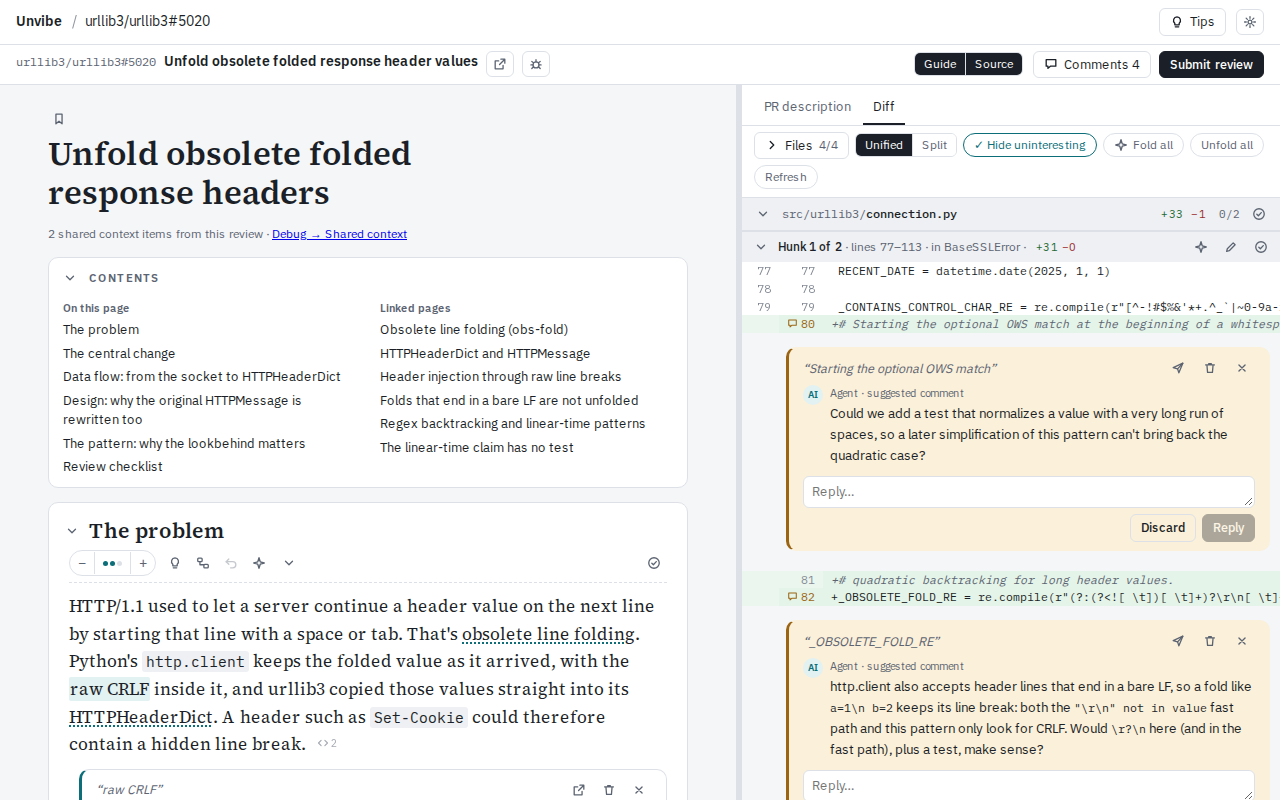
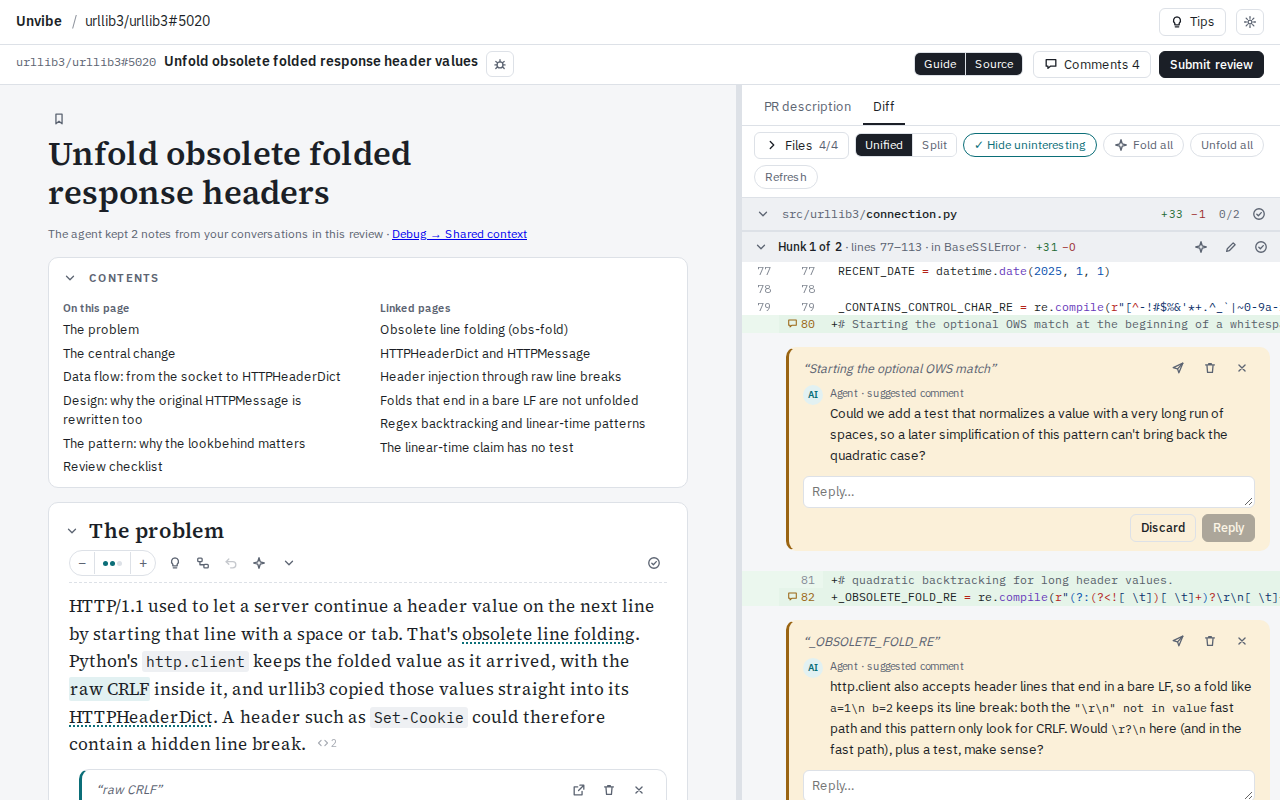
Follow-ups on the merge: copy wording, breadcrumb h1, mock demo repoId (#31, #55, #83)

diff --git a/packages/web/src/shell/ReviewBar.test.tsx b/packages/web/src/shell/ReviewBar.test.tsx
@@ -24,15 +24,18 @@ afterEach(() => {
 
 const noop = (): void => {};
 
-async function renderBar(reviewId: string): Promise<void> {
+async function renderBar(reviewId: string, identity: string): Promise<void> {
+  // ReviewBar reads the snapshot from the store (loaded by the panes in
+  // the app); seed it here the same way.
+  useReview.getState().setSnapshot(await api.review(reviewId));
   render(
     <MemoryRouter initialEntries={[`/review/${reviewId}`]}>
       <ReviewBar reviewId={reviewId} guideOpen sourceOpen onToggleGuide={noop} onToggleSource={noop} />
     </MemoryRouter>,
   );
-  // The identity falls back to the review id until the summary/snapshot
-  // arrive; wait for the PR identity instead.
-  await screen.findByText("urllib3/urllib3#5020", {}, { timeout: 5000 });
+  // The identity falls back to the review id until the summary arrives;
+  // wait for the PR identity instead.
+  await screen.findByText(identity, {}, { timeout: 5000 });
 }
 
 /** Store a modified copy of the demo snapshot under another review id. */
@@ -46,16 +49,18 @@ async function seedReview(review: Record<string, unknown>): Promise<void> {
 
 describe("ReviewBar", () => {
   it("shows identity, GitHub link, Debug icon, Guide|Source and Comments + Submit", async () => {
-    await renderBar("demo");
+    // r-old is a PR review (urllib3/urllib3#5011); the demo hides its
+    // GitHub link (see below), so the present-case uses r-old.
+    await renderBar("r-old", "urllib3/urllib3#5011");
     const bar = document.getElementById("reviewbar");
     expect(bar).not.toBeNull();
-    expect(bar).toHaveTextContent("Unfold obsolete folded response header values");
+    expect(bar).toHaveTextContent("Fix retry backoff on 429s");
     const github = screen.getByRole("link", { name: "Open PR on GitHub" });
-    expect(github).toHaveAttribute("href", "https://github.com/urllib3/urllib3/pull/5020");
+    expect(github).toHaveAttribute("href", "https://github.com/urllib3/urllib3/pull/5011");
     expect(github).toHaveAttribute("target", "_blank");
     expect(github).toHaveAttribute("rel", "noreferrer");
     const debug = screen.getByRole("link", { name: "Debug" });
-    expect(debug).toHaveAttribute("href", "/review/demo/debug");
+    expect(debug).toHaveAttribute("href", "/review/r-old/debug");
     expect(debug).toHaveAttribute("title", "Debug");
     expect(screen.getByRole("button", { name: "Guide" })).toHaveAttribute("aria-pressed", "true");
     expect(document.getElementById("toggleRight")).toHaveTextContent("Source");
@@ -78,13 +83,9 @@ describe("ReviewBar", () => {
   });
 
   it("shows no GitHub link for the demo", async () => {
-    await seedReview({ id: "demo-x", repoId: "demo", prNumber: 5020, branch: "demo" });
-    render(
-      <MemoryRouter initialEntries={["/review/demo-x"]}>
-        <ReviewBar reviewId="demo-x" guideOpen sourceOpen onToggleGuide={noop} onToggleSource={noop} />
-      </MemoryRouter>,
-    );
-    await screen.findByText("demo/urllib3-5020#5020");
+    // The mock demo snapshot carries repoId "demo" like the real demo, so
+    // the PR link-out stays hidden even though the summary names the PR.
+    await renderBar("demo", "urllib3/urllib3#5020");
     expect(screen.queryByRole("link", { name: "Open PR on GitHub" })).toBeNull();
   });
 

diff --git a/packages/web/e2e/review-bar.spec.ts b/packages/web/e2e/review-bar.spec.ts
@@ -18,22 +18,31 @@ test.beforeEach(async ({ page }) => {
 test("review bar shows identity, GitHub link, Debug, Guide|Source, Comments and Submit", async ({
   page,
 }) => {
+  // r-old is a PR review; the demo hides its GitHub link (mock snapshot
+  // carries repoId "demo" like the real demo), so the link case uses r-old.
+  await page.goto("/review/r-old");
+  await expect(page.locator(connFile)).toBeVisible();
   const bar = page.locator("#reviewbar");
   await expect(bar).toBeVisible();
-  await expect(bar.getByText("urllib3/urllib3#5020")).toBeVisible();
-  await expect(bar.getByText("Unfold obsolete folded response header values")).toBeVisible();
+  await expect(bar.getByText("urllib3/urllib3#5011")).toBeVisible();
   const github = bar.getByRole("link", { name: "Open PR on GitHub" });
-  await expect(github).toHaveAttribute("href", "https://github.com/urllib3/urllib3/pull/5020");
+  await expect(github).toHaveAttribute("href", "https://github.com/urllib3/urllib3/pull/5011");
   await expect(github).toHaveAttribute("target", "_blank");
   await expect(bar.getByRole("link", { name: "Debug" })).toHaveAttribute(
     "href",
-    "/review/demo/debug",
+    "/review/r-old/debug",
   );
   await expect(bar.getByRole("button", { name: "Guide" })).toHaveAttribute("aria-pressed", "true");
   await expect(bar.getByRole("button", { name: "Source" })).toHaveAttribute("aria-pressed", "true");
   await expect(bar.locator('[data-cm=""]')).toBeVisible();
   // Submit is the primary action in the bar.
   await expect(bar.locator('#submitSlot [data-submit]')).toHaveClass(/btn/);
+});
+
+test("demo review shows no GitHub link", async ({ page }) => {
+  const bar = page.locator("#reviewbar");
+  await expect(bar.getByText("urllib3/urllib3#5020")).toBeVisible();
+  await expect(bar.getByRole("link", { name: "Open PR on GitHub" })).toHaveCount(0);
 });
 
 test("review breadcrumb names the review as the current page", async ({ page }) => {

diff --git a/packages/web/e2e/diff.spec.ts b/packages/web/e2e/diff.spec.ts
@@ -81,7 +81,7 @@ test("files filter narrows the visible files", async ({ page }) => {
 });
 
 test("file filter dropdown filters by type with counts and an active state", async ({ page }) => {
-  await page.getByRole("button", { name: "Show files panel" }).click();
+  await page.getByRole("button", { name: "Show file list" }).click();
   const filter = page.getByRole("button", { name: "File filters" });
   await expect(filter).toBeVisible();
   // Default: no active badge.
@@ -91,7 +91,7 @@ test("file filter dropdown filters by type with counts and an active state", asy
   await expect(menu).toBeVisible();
   // Five categories plus Reviewed, each a checkable row with a count.
   await expect(menu.getByRole("menuitemcheckbox")).toHaveCount(6);
-  for (const name of ["Source", "Tests", "Docs", "Config", "Generated", "Reviewed"]) {
+  for (const name of ["Code", "Tests", "Docs", "Config", "Generated", "Reviewed"]) {
     await expect(menu.getByRole("menuitemcheckbox", { name: new RegExp(name) })).toBeVisible();
   }
   // Deselect Tests: its files hide and the button shows the active count.
@@ -108,7 +108,7 @@ test("file filter dropdown filters by type with counts and an active state", asy
 });
 
 test("file filter dropdown is keyboard-usable and closes on Escape", async ({ page }) => {
-  await page.getByRole("button", { name: "Show files panel" }).click();
+  await page.getByRole("button", { name: "Show file list" }).click();
   const filter = page.getByRole("button", { name: "File filters" });
   await filter.focus();
   await page.keyboard.press("Enter");

diff --git a/packages/web/src/source/diff/DiffView.test.tsx b/packages/web/src/source/diff/DiffView.test.tsx
@@ -115,7 +115,7 @@ describe("DiffView", () => {
       }),
     );
     await renderDiff();
-    await fireEvent.click(screen.getByRole("button", { name: "Show files panel" }));
+    await fireEvent.click(screen.getByRole("button", { name: "Show file list" }));
     // Only the source file shows; the tests/docs files are filtered out.
     expect(document.getElementById(`F-${CONN}`)).not.toBeNull();
     expect(document.getElementById(`F-${TCONN}`)).toBeNull();
@@ -136,7 +136,7 @@ describe("DiffView", () => {
 
   it("filter button shows its active state and toggles categories", async () => {
     await renderDiff();
-    await fireEvent.click(screen.getByRole("button", { name: "Show files panel" }));
+    await fireEvent.click(screen.getByRole("button", { name: "Show file list" }));
     const filter = screen.getByRole("button", { name: "File filters" });
     // Default: everything shown, no active badge.
     expect(filter).toHaveAttribute("aria-pressed", "false");
@@ -158,7 +158,7 @@ describe("DiffView", () => {
 
   it("filter dropdown toggles Reviewed and is keyboard-usable", async () => {
     await renderDiff();
-    await fireEvent.click(screen.getByRole("button", { name: "Show files panel" }));
+    await fireEvent.click(screen.getByRole("button", { name: "Show file list" }));
     const filter = screen.getByRole("button", { name: "File filters" });
     await fireEvent.click(filter);
     const menu = screen.getByRole("menu", { name: "File filters" });

diff --git a/packages/web/e2e/start.spec.ts b/packages/web/e2e/start.spec.ts
@@ -33,8 +33,8 @@ test("repo selector lists remembered and detected repos, persisted", async ({ pa
 });
 
 test("repo selector sits centered above Reviews, outside the top bar", async ({ page }) => {
-  await expect(page.locator("header.top").getByLabel("Repository")).toHaveCount(0);
-  const sel = page.getByLabel("Repository");
+  await expect(page.locator("header.top").getByLabel("Repo")).toHaveCount(0);
+  const sel = page.getByLabel("Repo");
   await expect(sel).toBeVisible();
   const headerBox = await page.locator("header.top").boundingBox();
   const selBox = await sel.boundingBox();
@@ -54,7 +54,7 @@ test("ready indicator shows as a quiet content line, not in the top bar", async 
   await expect(page.locator("header.top").locator('[data-testid="readiness-ready"]')).toHaveCount(0);
   const ready = page.locator('[data-testid="readiness-ready"]');
   await expect(ready).toBeVisible();
-  await expect(ready).toContainText("Ready · gh + agents ok");
+  await expect(ready).toHaveText("Ready");
   const readyBox = await ready.boundingBox();
   const reviewsBox = await page.getByRole("heading", { name: "Reviews" }).boundingBox();
   expect(readyBox?.y).toBeGreaterThan(reviewsBox ? reviewsBox.y + reviewsBox.height : 0);

diff --git a/packages/web/src/shell/ScreenTopBar.tsx b/packages/web/src/shell/ScreenTopBar.tsx
@@ -31,7 +31,7 @@ export function ScreenTopBar({
 }): React.JSX.Element {
   return (
     <header className="top">
-      <Link className="brand" to="/" title="Back to the start screen">
+      <Link className="brand" to="/" title="Back to the start page">
         Unvibe
       </Link>
       {crumbs && crumbs.length > 0 ? (
@@ -41,7 +41,11 @@ export function ScreenTopBar({
               <span aria-hidden="true" className="tsep">
                 /
               </span>
-              {c.to ? <Link to={c.to}>{c.label}</Link> : <span aria-current="page">{c.label}</span>}
+              {c.to ? (
+                <Link to={c.to}>{c.label}</Link>
+              ) : (
+                <h1 aria-current="page">{c.label}</h1>
+              )}
             </span>
           ))}
         </nav>

diff --git a/packages/web/src/shell/reviewIdentity.ts b/packages/web/src/shell/reviewIdentity.ts
@@ -10,6 +10,7 @@
  */
 import { useEffect, useState } from "react";
 import type { ReviewSummary } from "@unvibe/shared";
+import { isDefaultGuideTitle } from "@unvibe/shared";
 import { api } from "../api/client.js";
 import { useReview } from "../state/store.js";
 
@@ -55,9 +56,9 @@ export function useReviewIdentity(reviewId: string): ReviewIdentity {
       : branch || reviewId;
   const rootTitle = snapshot?.pages.find((p) => p.kind === "root")?.title;
   const title =
-    summary?.title && summary.title !== "Guided review"
+    summary?.title && !isDefaultGuideTitle(summary.title)
       ? summary.title
-      : rootTitle && rootTitle !== "Guided review"
+      : rootTitle && !isDefaultGuideTitle(rootTitle)
         ? rootTitle
         : branch || reviewId;
   const prUrl =

diff --git a/packages/web/src/styles/prototype.css b/packages/web/src/styles/prototype.css
@@ -54,6 +54,9 @@ code { font-family: var(--mono); font-size: .86em; }
 .tcrumbs a { color: var(--muted); text-decoration: none; overflow: hidden; text-overflow: ellipsis; min-width: 0; }
 .tcrumbs a:hover { color: var(--accent); text-decoration: underline; }
 .tcrumbs [aria-current="page"] { color: var(--ink); overflow: hidden; text-overflow: ellipsis; min-width: 0; }
+/* The breadcrumb's current item is the page's h1; keep it visually identical
+   to the surrounding trail text. */
+.tcrumbs h1 { margin: 0; font-size: inherit; font-weight: inherit; }
 /* Review bar (issue #31 round 2): the review-specific second row under the
    top bar — identity left (truncates first), Guide|Source selector, then
    Comments + Submit. Never wraps; the dropdowns anchor inside it. */

diff --git a/packages/web/src/mock/index.ts b/packages/web/src/mock/index.ts
@@ -859,6 +859,11 @@ function currentSnapshot(reviewId = "demo", version?: number): ReviewSnapshot {
     review: {
       ...MOCK_REVIEW,
       id: reviewId,
+      // The real demo review uses repoId "demo" (service `pipeline/demo.ts`);
+      // the mock snapshot matches so demo-only rules apply (no GitHub
+      // link-out, no refresh). The summary list keeps its urllib3 row, so
+      // the start-page fixtures are unaffected.
+      repoId: reviewId === "demo" ? "demo" : MOCK_REVIEW.repoId,
       versions: stale ? [MOCK_VERSION, MOCK_VERSION_2] : [MOCK_VERSION],
       currentVersion: stale ? 2 : 1,
     },
